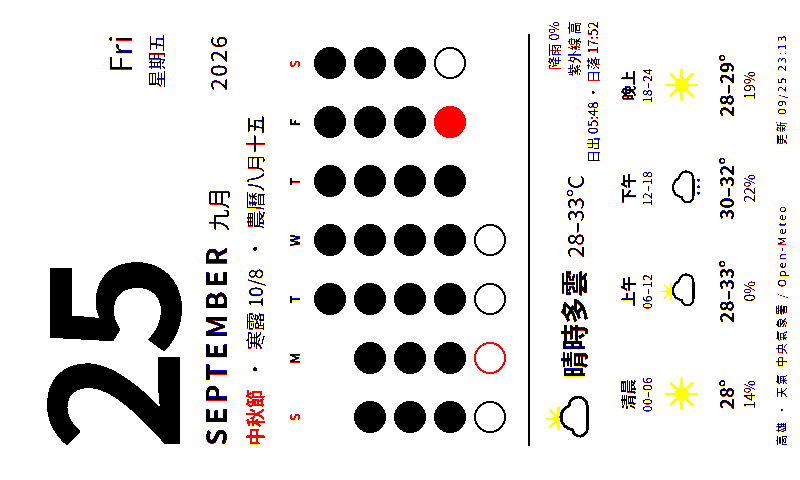
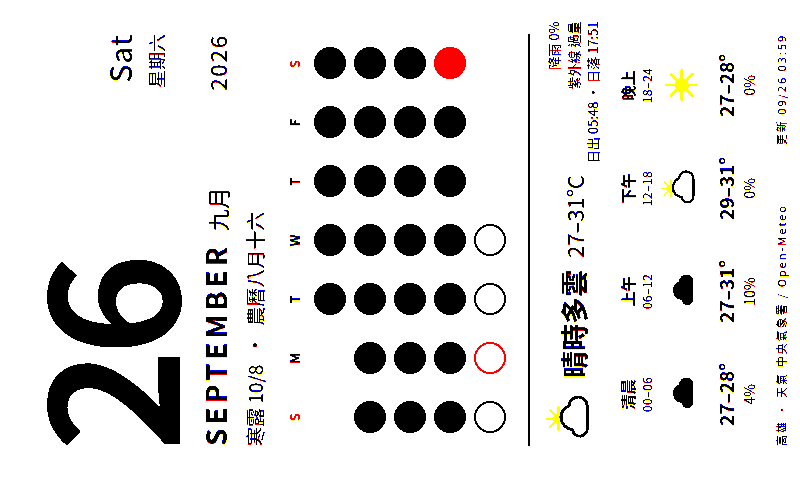
deploy: cf7d1051eb6821bc691ba0ade4beb12cdf9fe0ef

diff --git a/calendar.html b/calendar.html
@@ -47,16 +47,16 @@
 </style></head>
 <body><div class="page">
   <div class="head">
-    <div class="num">25</div>
-    <div class="wd"><div class="en">Fri</div><div class="zh">星期五</div></div>
+    <div class="num">26</div>
+    <div class="wd"><div class="en">Sat</div><div class="zh">星期六</div></div>
   </div>
   <div class="month"><span class="en">SEPTEMBER</span><span class="zh">九月</span><span class="yr">2026</span></div>
-  <div class="today"><span class="hl">中秋節</span><span>·</span><span class="lunar">寒露 10/8</span><span>·</span><span class="lunar">農曆八月十五</span></div>
-  <div class="grid"><div class="h we">S</div><div class="h">M</div><div class="h">T</div><div class="h">W</div><div class="h">T</div><div class="h">F</div><div class="h we">S</div><div class="dot empty"></div><div class="dot empty"></div><div class="dot past" title="1"></div><div class="dot past" title="2"></div><div class="dot past" title="3"></div><div class="dot past" title="4"></div><div class="dot past" title="5"></div><div class="dot past" title="6"></div><div class="dot past" title="7"></div><div class="dot past" title="8"></div><div class="dot past" title="9"></div><div class="dot past" title="10"></div><div class="dot past" title="11"></div><div class="dot past" title="12"></div><div class="dot past" title="13"></div><div class="dot past" title="14"></div><div class="dot past" title="15"></div><div class="dot past" title="16"></div><div class="dot past" title="17"></div><div class="dot past" title="18"></div><div class="dot past" title="19"></div><div class="dot past" title="20"></div><div class="dot past" title="21"></div><div class="dot past" title="22"></div><div class="dot past" title="23"></div><div class="dot past" title="24"></div><div class="dot now" title="25"></div><div class="dot future" title="26"></div><div class="dot future" title="27"></div><div class="dot future hol" title="28"></div><div class="dot future" title="29"></div><div class="dot future" title="30"></div></div>
+  <div class="today"><span class="lunar">寒露 10/8</span><span>·</span><span class="lunar">農曆八月十六</span></div>
+  <div class="grid"><div class="h we">S</div><div class="h">M</div><div class="h">T</div><div class="h">W</div><div class="h">T</div><div class="h">F</div><div class="h we">S</div><div class="dot empty"></div><div class="dot empty"></div><div class="dot past" title="1"></div><div class="dot past" title="2"></div><div class="dot past" title="3"></div><div class="dot past" title="4"></div><div class="dot past" title="5"></div><div class="dot past" title="6"></div><div class="dot past" title="7"></div><div class="dot past" title="8"></div><div class="dot past" title="9"></div><div class="dot past" title="10"></div><div class="dot past" title="11"></div><div class="dot past" title="12"></div><div class="dot past" title="13"></div><div class="dot past" title="14"></div><div class="dot past" title="15"></div><div class="dot past" title="16"></div><div class="dot past" title="17"></div><div class="dot past" title="18"></div><div class="dot past" title="19"></div><div class="dot past" title="20"></div><div class="dot past" title="21"></div><div class="dot past" title="22"></div><div class="dot past" title="23"></div><div class="dot past" title="24"></div><div class="dot past" title="25"></div><div class="dot now" title="26"></div><div class="dot future" title="27"></div><div class="dot future hol" title="28"></div><div class="dot future" title="29"></div><div class="dot future" title="30"></div></div>
   <div class="wx"><div class="line">
-    <div class="wxhead"><svg viewBox="0 0 64 68" xmlns="http://www.w3.org/2000/svg"><g transform="translate(12 -4) scale(.6)"><circle cx="32" cy="32" r="11" fill="#f5c400"/><g stroke="#f5c400" stroke-width="4" stroke-linecap="round"><line x1="32" y1="32" x2="32" y2="8" transform="rotate(0 32 32)"/><line x1="32" y1="32" x2="32" y2="8" transform="rotate(45 32 32)"/><line x1="32" y1="32" x2="32" y2="8" transform="rotate(90 32 32)"/><line x1="32" y1="32" x2="32" y2="8" transform="rotate(135 32 32)"/><line x1="32" y1="32" x2="32" y2="8" transform="rotate(180 32 32)"/><line x1="32" y1="32" x2="32" y2="8" transform="rotate(225 32 32)"/><line x1="32" y1="32" x2="32" y2="8" transform="rotate(270 32 32)"/><line x1="32" y1="32" x2="32" y2="8" transform="rotate(315 32 32)"/></g></g><path d="M20 50h26a11 11 0 0 0 1-22 15 15 0 0 0-29 4 9 9 0 0 0 2 18z" fill="#fff" stroke="#000" stroke-width="3.5" stroke-linejoin="round"/></svg><span class="desc">晴時多雲</span><span class="temp">28–33°C</span>
-      <div class="meta">降雨 0%<br>紫外線 高<br>日出 05:48 · 日落 17:52</div></div>
-    <div class="slots"><div class="slot"><div class="n">清晨</div><div class="hrs">00–06</div><svg viewBox="0 0 64 68" xmlns="http://www.w3.org/2000/svg"><circle cx="32" cy="32" r="11" fill="#f5c400"/><g stroke="#f5c400" stroke-width="4" stroke-linecap="round"><line x1="32" y1="32" x2="32" y2="8" transform="rotate(0 32 32)"/><line x1="32" y1="32" x2="32" y2="8" transform="rotate(45 32 32)"/><line x1="32" y1="32" x2="32" y2="8" transform="rotate(90 32 32)"/><line x1="32" y1="32" x2="32" y2="8" transform="rotate(135 32 32)"/><line x1="32" y1="32" x2="32" y2="8" transform="rotate(180 32 32)"/><line x1="32" y1="32" x2="32" y2="8" transform="rotate(225 32 32)"/><line x1="32" y1="32" x2="32" y2="8" transform="rotate(270 32 32)"/><line x1="32" y1="32" x2="32" y2="8" transform="rotate(315 32 32)"/></g></svg><div class="t">28°</div><div class="p dry">14%</div></div><div class="slot"><div class="n">上午</div><div class="hrs">06–12</div><svg viewBox="0 0 64 68" xmlns="http://www.w3.org/2000/svg"><g transform="translate(12 -4) scale(.6)"><circle cx="32" cy="32" r="11" fill="#f5c400"/><g stroke="#f5c400" stroke-width="4" stroke-linecap="round"><line x1="32" y1="32" x2="32" y2="8" transform="rotate(0 32 32)"/><line x1="32" y1="32" x2="32" y2="8" transform="rotate(45 32 32)"/><line x1="32" y1="32" x2="32" y2="8" transform="rotate(90 32 32)"/><line x1="32" y1="32" x2="32" y2="8" transform="rotate(135 32 32)"/><line x1="32" y1="32" x2="32" y2="8" transform="rotate(180 32 32)"/><line x1="32" y1="32" x2="32" y2="8" transform="rotate(225 32 32)"/><line x1="32" y1="32" x2="32" y2="8" transform="rotate(270 32 32)"/><line x1="32" y1="32" x2="32" y2="8" transform="rotate(315 32 32)"/></g></g><path d="M20 50h26a11 11 0 0 0 1-22 15 15 0 0 0-29 4 9 9 0 0 0 2 18z" fill="#fff" stroke="#000" stroke-width="3.5" stroke-linejoin="round"/></svg><div class="t">28–33°</div><div class="p dry">0%</div></div><div class="slot"><div class="n">下午</div><div class="hrs">12–18</div><svg viewBox="0 0 64 68" xmlns="http://www.w3.org/2000/svg"><path d="M20 50h26a11 11 0 0 0 1-22 15 15 0 0 0-29 4 9 9 0 0 0 2 18z" fill="#fff" stroke="#000" stroke-width="3.5" stroke-linejoin="round"/><g fill="#0040ff"><circle cx="24" cy="58" r="2.2"/><circle cx="34" cy="58" r="2.2"/><circle cx="44" cy="58" r="2.2"/></g></svg><div class="t">30–32°</div><div class="p dry">22%</div></div><div class="slot"><div class="n">晚上</div><div class="hrs">18–24</div><svg viewBox="0 0 64 68" xmlns="http://www.w3.org/2000/svg"><circle cx="32" cy="32" r="11" fill="#f5c400"/><g stroke="#f5c400" stroke-width="4" stroke-linecap="round"><line x1="32" y1="32" x2="32" y2="8" transform="rotate(0 32 32)"/><line x1="32" y1="32" x2="32" y2="8" transform="rotate(45 32 32)"/><line x1="32" y1="32" x2="32" y2="8" transform="rotate(90 32 32)"/><line x1="32" y1="32" x2="32" y2="8" transform="rotate(135 32 32)"/><line x1="32" y1="32" x2="32" y2="8" transform="rotate(180 32 32)"/><line x1="32" y1="32" x2="32" y2="8" transform="rotate(225 32 32)"/><line x1="32" y1="32" x2="32" y2="8" transform="rotate(270 32 32)"/><line x1="32" y1="32" x2="32" y2="8" transform="rotate(315 32 32)"/></g></svg><div class="t">28–29°</div><div class="p dry">19%</div></div></div>
+    <div class="wxhead"><svg viewBox="0 0 64 68" xmlns="http://www.w3.org/2000/svg"><g transform="translate(12 -4) scale(.6)"><circle cx="32" cy="32" r="11" fill="#f5c400"/><g stroke="#f5c400" stroke-width="4" stroke-linecap="round"><line x1="32" y1="32" x2="32" y2="8" transform="rotate(0 32 32)"/><line x1="32" y1="32" x2="32" y2="8" transform="rotate(45 32 32)"/><line x1="32" y1="32" x2="32" y2="8" transform="rotate(90 32 32)"/><line x1="32" y1="32" x2="32" y2="8" transform="rotate(135 32 32)"/><line x1="32" y1="32" x2="32" y2="8" transform="rotate(180 32 32)"/><line x1="32" y1="32" x2="32" y2="8" transform="rotate(225 32 32)"/><line x1="32" y1="32" x2="32" y2="8" transform="rotate(270 32 32)"/><line x1="32" y1="32" x2="32" y2="8" transform="rotate(315 32 32)"/></g></g><path d="M20 50h26a11 11 0 0 0 1-22 15 15 0 0 0-29 4 9 9 0 0 0 2 18z" fill="#fff" stroke="#000" stroke-width="3.5" stroke-linejoin="round"/></svg><span class="desc">晴時多雲</span><span class="temp">27–31°C</span>
+      <div class="meta">降雨 0%<br>紫外線 過量<br>日出 05:48 · 日落 17:51</div></div>
+    <div class="slots"><div class="slot"><div class="n">清晨</div><div class="hrs">00–06</div><svg viewBox="0 0 64 68" xmlns="http://www.w3.org/2000/svg"><path d="M20 50h26a11 11 0 0 0 1-22 15 15 0 0 0-29 4 9 9 0 0 0 2 18z" fill="#000"/></svg><div class="t">27–28°</div><div class="p dry">4%</div></div><div class="slot"><div class="n">上午</div><div class="hrs">06–12</div><svg viewBox="0 0 64 68" xmlns="http://www.w3.org/2000/svg"><path d="M20 50h26a11 11 0 0 0 1-22 15 15 0 0 0-29 4 9 9 0 0 0 2 18z" fill="#000"/></svg><div class="t">27–31°</div><div class="p dry">10%</div></div><div class="slot"><div class="n">下午</div><div class="hrs">12–18</div><svg viewBox="0 0 64 68" xmlns="http://www.w3.org/2000/svg"><g transform="translate(12 -4) scale(.6)"><circle cx="32" cy="32" r="11" fill="#f5c400"/><g stroke="#f5c400" stroke-width="4" stroke-linecap="round"><line x1="32" y1="32" x2="32" y2="8" transform="rotate(0 32 32)"/><line x1="32" y1="32" x2="32" y2="8" transform="rotate(45 32 32)"/><line x1="32" y1="32" x2="32" y2="8" transform="rotate(90 32 32)"/><line x1="32" y1="32" x2="32" y2="8" transform="rotate(135 32 32)"/><line x1="32" y1="32" x2="32" y2="8" transform="rotate(180 32 32)"/><line x1="32" y1="32" x2="32" y2="8" transform="rotate(225 32 32)"/><line x1="32" y1="32" x2="32" y2="8" transform="rotate(270 32 32)"/><line x1="32" y1="32" x2="32" y2="8" transform="rotate(315 32 32)"/></g></g><path d="M20 50h26a11 11 0 0 0 1-22 15 15 0 0 0-29 4 9 9 0 0 0 2 18z" fill="#fff" stroke="#000" stroke-width="3.5" stroke-linejoin="round"/></svg><div class="t">29–31°</div><div class="p dry">0%</div></div><div class="slot"><div class="n">晚上</div><div class="hrs">18–24</div><svg viewBox="0 0 64 68" xmlns="http://www.w3.org/2000/svg"><circle cx="32" cy="32" r="11" fill="#f5c400"/><g stroke="#f5c400" stroke-width="4" stroke-linecap="round"><line x1="32" y1="32" x2="32" y2="8" transform="rotate(0 32 32)"/><line x1="32" y1="32" x2="32" y2="8" transform="rotate(45 32 32)"/><line x1="32" y1="32" x2="32" y2="8" transform="rotate(90 32 32)"/><line x1="32" y1="32" x2="32" y2="8" transform="rotate(135 32 32)"/><line x1="32" y1="32" x2="32" y2="8" transform="rotate(180 32 32)"/><line x1="32" y1="32" x2="32" y2="8" transform="rotate(225 32 32)"/><line x1="32" y1="32" x2="32" y2="8" transform="rotate(270 32 32)"/><line x1="32" y1="32" x2="32" y2="8" transform="rotate(315 32 32)"/></g></svg><div class="t">27–28°</div><div class="p dry">0%</div></div></div>
   </div></div>
-  <div class="foot"><span>高雄 · 天氣 中央氣象署 / Open-Meteo</span><span>更新 09/25 23:13</span></div>
+  <div class="foot"><span>高雄 · 天氣 中央氣象署 / Open-Meteo</span><span>更新 09/26 03:59</span></div>
 </div></body></html>
